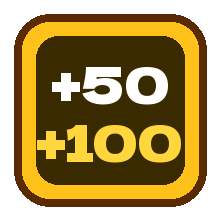
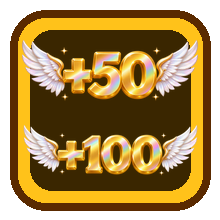
チャッピーの絵を反映：世界樹の台・ドラゴンの台・＋50ロゴ・顔つきの太陽
Claude-Session: https://claude.ai/code/session_01HLDAdxR8EuB7ryd8AUY3Hp

diff --git a/tsumi/index.html b/tsumi/index.html
@@ -707,14 +707,14 @@ function drawStock(){ if(stStock<=0 || S.mode==='title' || !tenshiImg.naturalWid
 /* 太陽（北風と太陽）：突風が来ている間に出すと、風の精霊の反対側から現れて光で押し返し、突風を相殺する。風がない時は顔を出して帰るだけ */
 let sunC=null;
 function drawSunClash(){ const c=sunC; if(!c || !sunImg.naturalWidth || S.mode==='title') return; const el=performance.now()/1000-c.at, D=c.miss?1.5:2.3; if(el>D || el<0){ sunC=null; return; }
-  const d=c.dir, inn=1-Math.pow(1-clamp(el/.3,0,1),3), out=clamp((el-(D-.35))/.35,0,1), off=(1-inn)*460+out*out*460, sz=340, sx0=d>0?viewR()-210+off:viewL()+210-off, y=c.y+Math.sin(el*5)*8;
+  const d=c.dir, inn=1-Math.pow(1-clamp(el/.3,0,1),3), out=clamp((el-(D-.35))/.35,0,1), off=(1-inn)*460+out*out*460, sz=400, sx0=d>0?viewR()-210+off:viewL()+210-off, y=c.y+Math.sin(el*5)*8;
   g.save();
   if(!c.miss){ const mx=spiritMouth(), u0=clamp((el-.25)/.95,0,1), u=u0*u0*(3-2*u0), meet=(sx0+mx)/2+(mx-(sx0+mx)/2)*u, fl=.8+.2*Math.sin(el*60);
     if(el>.2 && el<1.5){ g.save(); g.globalCompositeOperation='lighter'; const a=clamp((el-.2)/.15,0,1)*clamp((1.5-el)/.25,0,1); const gr=g.createLinearGradient(sx0,0,meet,0); gr.addColorStop(0,'rgba(255,214,90,'+(.75*a)+')'); gr.addColorStop(1,'rgba(255,170,40,'+(.35*a)+')'); g.fillStyle=gr; g.beginPath(); g.moveTo(sx0,y-70); g.lineTo(meet,y-130*fl); g.lineTo(meet,y+130*fl); g.lineTo(sx0,y+70); g.fill();
       const R=(120+60*u)*fl, rg=g.createRadialGradient(meet,y,0,meet,y,R); rg.addColorStop(0,'rgba(255,255,255,'+a+')'); rg.addColorStop(.4,'rgba(255,230,120,'+(.8*a)+')'); rg.addColorStop(1,'rgba(255,160,40,0)'); g.fillStyle=rg; g.beginPath(); g.arc(meet,y,R,0,7); g.fill();
       g.strokeStyle='rgba(255,255,255,'+(.9*a)+')'; g.lineWidth=5; g.lineCap='round'; for(let i=0;i<9;i++){ const an=i*.7+el*9, r0=R*.5, r1=R*(1.1+.5*Math.sin(el*23+i*2)); g.beginPath(); g.moveTo(meet+Math.cos(an)*r0,y+Math.sin(an)*r0); g.lineTo(meet+Math.cos(an)*r1,y+Math.sin(an)*r1); g.stroke(); } g.restore(); }
     if(el>1.2 && el<1.75){ const k=(el-1.2)/.55, R=120+k*760; g.save(); g.globalCompositeOperation='lighter'; const rg=g.createRadialGradient(mx,y,R*.2,mx,y,R); rg.addColorStop(0,'rgba(255,255,255,'+(.9*(1-k))+')'); rg.addColorStop(.6,'rgba(255,220,110,'+(.6*(1-k))+')'); rg.addColorStop(1,'rgba(255,180,60,0)'); g.fillStyle=rg; g.beginPath(); g.arc(mx,y,R,0,7); g.fill(); g.restore(); } }
-  g.translate(sx0,y); if(d<0) g.scale(-1,1); const pu=1+.05*Math.sin(el*14)*(c.miss?0:1); g.scale(pu,pu); g.shadowColor='#ffb020'; g.shadowBlur=50; g.drawImage(sunImg,-sz/2,-sz/2,sz,sz); g.restore(); }
+  g.translate(sx0,y); if(d<0) g.scale(-1,1); const pu=1+.05*Math.sin(el*14)*(c.miss?0:1); g.scale(pu,pu); g.shadowColor='#ffb020'; g.shadowBlur=50; const sh2=sz*sunImg.naturalHeight/sunImg.naturalWidth; g.drawImage(sunImg,-sz/2,-sh2/2,sz,sh2); g.restore(); }
 function drawSun(){}
 function guarded(name,what){ logAdd('天使像が '+name+' の'+what+'をはね返した','#fff3b0'); S.holy=Math.max(S.holy,1.2); const b=S.stBody; if(b) S.rings.push({x:b.position.x,y:b.position.y,t:0}); sfx.good(); }
 function startStatue(name){ const apply=()=>{ { const from=wins, add=CFG.statueWin*DB(); wins+=add; saveWins(); S.winRoll={from,to:wins,t:0,dur:1.0}; logAdd(name+' の天使像：WIN ＋'+add,'#ffe680'); } setBg('statue'); { const m=DB(); if(statue>0){ const ad=Math.min(m,ST_MAX-stStock); stStock+=ad; logAdd(ad>0?'天使像をストック（'+stStock+'体）':'天使像のストックは'+ST_MAX+'体まで','#fff3b0'); } else { statue=CFG.statueRounds; stStock=Math.min(ST_MAX,stStock+m-1); } } statueBy=name; witch=0; setGoal(); S.wind=0; S.windPre=0; S.quake=0; S.roul=null; S.roulQ.length=0; S.white=Math.max(S.white,.6); S.holy=6;
@@ -1146,7 +1146,13 @@ function buildBG(){ bgCv=document.createElement('canvas'); bgCv.width=W; bgCv.he
   hill(1330,60,'#9db7c9',1); hill(1390,46,'#7f9f9a',3); hill(1450,34,'#6f9268',5);
   const gr=b.createLinearGradient(0,1480,0,1570); gr.addColorStop(0,'#6d9a4f'); gr.addColorStop(1,'#4f7a38'); b.fillStyle=gr; b.fillRect(0,1500,W,70);
   for(let i=0;i<900;i++){ b.strokeStyle='rgba('+Math.floor(rand(40,110))+','+Math.floor(rand(110,170))+','+Math.floor(rand(40,80))+',.6)'; b.lineWidth=2; const x=rand(0,W), y=rand(1500,1570); b.beginPath(); b.moveTo(x,y); b.lineTo(x+rand(-5,5),y-rand(8,22)); b.stroke(); } }
+const tblImg={dragon:new Image(),tree:new Image()}; tblImg.dragon.src='./img/table_dragon.png'; tblImg.tree.src='./img/table_tree.png';   // チャッピー製の台（上の面が絵のいちばん上）
 function drawTable(){ const tw=table.bounds.max.x-table.bounds.min.x, tx=table.bounds.min.x, hs=n=>{ const v=Math.sin(n*127.1+311.7)*43758.5453; return v-Math.floor(v); };
+  { const im=curse?tblImg.dragon:(bless?tblImg.tree:null); if(im && im.naturalWidth){ const th=140, pu=.6+.4*Math.sin(S.t*2.6);
+      g.fillStyle='rgba(0,0,0,'+(curse?.35:.22)+')'; g.beginPath(); g.ellipse(540,TOP_Y+140,tw*.5,16,0,0,7); g.fill();
+      if(curse){ g.save(); g.globalCompositeOperation='lighter'; const eg=g.createRadialGradient(540,TOP_Y+110,10,540,TOP_Y+110,tw*.62); eg.addColorStop(0,'rgba(255,70,20,'+(.34*pu)+')'); eg.addColorStop(1,'rgba(255,40,0,0)'); g.fillStyle=eg; g.fillRect(tx-80,TOP_Y+10,tw+160,200); g.restore(); g.drawImage(im,tx,TOP_Y,tw,th); g.save(); g.globalCompositeOperation='lighter'; g.globalAlpha=.28*pu; g.drawImage(im,tx,TOP_Y,tw,th); g.restore(); }
+      else { g.save(); g.shadowColor='#ffe680'; g.shadowBlur=30+Math.sin(S.t*3)*8; g.drawImage(im,tx,TOP_Y,tw,th); g.restore(); }
+      return; } }
   if(curse){   // ドラゴンの呪い：黒くこげた岩の台。ひびの中で溶岩が脈打つ
     const pu=.6+.4*Math.sin(S.t*2.6); g.save(); g.globalCompositeOperation='lighter'; const eg=g.createRadialGradient(540,TOP_Y+120,10,540,TOP_Y+120,tw*.62); eg.addColorStop(0,'rgba(255,70,20,'+(.34*pu)+')'); eg.addColorStop(1,'rgba(255,40,0,0)'); g.fillStyle=eg; g.fillRect(tx-80,TOP_Y+20,tw+160,190); g.restore();
     g.fillStyle='#141218'; for(const lx of [tx+46,tx+tw-116]){ g.beginPath(); g.moveTo(lx,TOP_Y+50); g.lineTo(lx+70,TOP_Y+50); g.lineTo(lx+58,TOP_Y+96); g.lineTo(lx+66,TOP_Y+140); g.lineTo(lx+2,TOP_Y+140); g.lineTo(lx+12,TOP_Y+92); g.fill(); }
